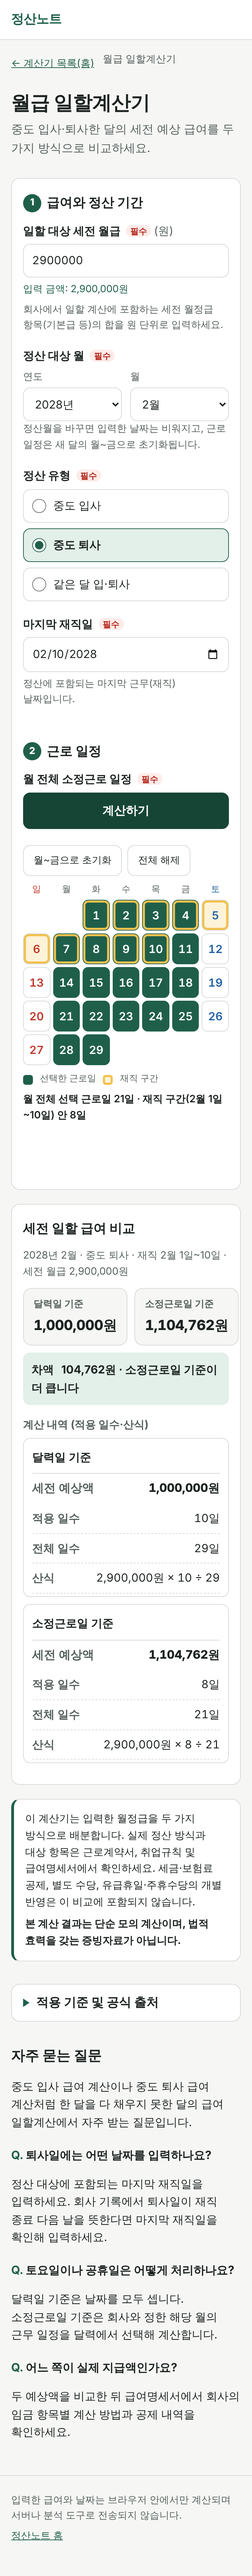
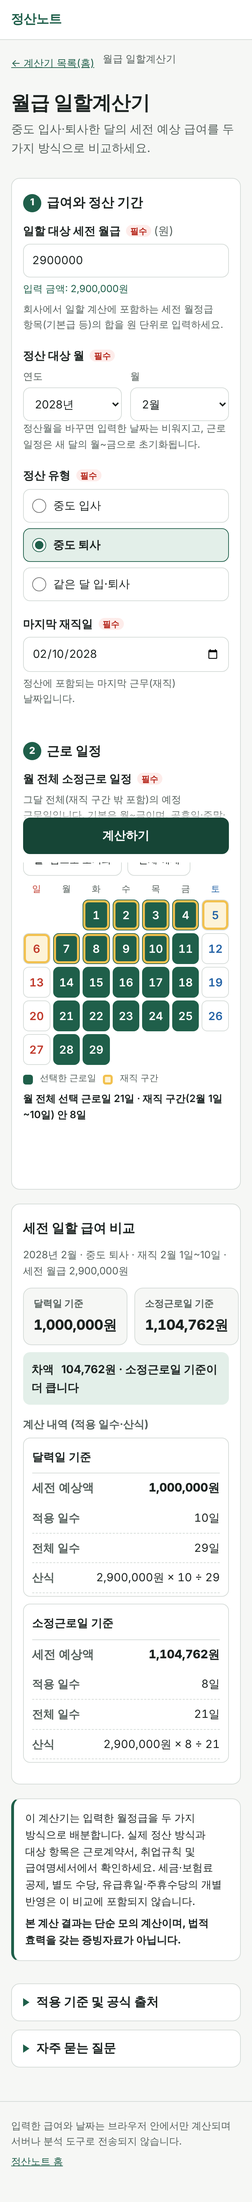
자주 묻는 질문을 접이식 영역으로 (두 계산기)
- 기본 접힘, 제목줄 전체 클릭·Enter·Space, 화살표로 상태 표시 (적용 기준 영역과 같은 스타일)
- 화면 자동 점검에 FAQ 접이식 항목 추가 (360·390·1440px)

Claude-Session: https://claude.ai/code/session_01Q3BcEdyQ2K5YjfFxHGZibt

Changed region(s): [[0.0306, 0.0, 0.9167, 0.9978], [0.825, 0.0312, 0.8556, 0.0624], [0.7333, 0.0312, 0.7639, 0.0624]]

diff --git a/site/assets/css/style.css b/site/assets/css/style.css
@@ -394,26 +394,26 @@ input[aria-invalid="true"] { border-color: var(--error); box-shadow: 0 0 0 1px v
   :root:not([data-theme="light"]) .badge-eligible { color: #0d1a15; }
 }
 
-/* ---------- 적용 기준 및 공식 출처 (접이식) ---------- */
-.basis-fold { margin-top: 32px; border: 1px solid var(--border); border-radius: var(--radius); background: var(--surface); }
-.basis-fold > .fold-summary {
+/* ---------- 접이식 영역: 적용 기준 및 공식 출처 · 자주 묻는 질문 ---------- */
+:is(.basis-fold, .faq-fold) { margin-top: 32px; border: 1px solid var(--border); border-radius: var(--radius); background: var(--surface); }
+:is(.basis-fold, .faq-fold) > .fold-summary {
   display: flex; align-items: center; gap: 10px; min-height: 52px; padding: 12px 16px;
   cursor: pointer; list-style: none; border-radius: var(--radius);
   -webkit-tap-highlight-color: transparent; user-select: none;
 }
-.basis-fold > .fold-summary::-webkit-details-marker { display: none; }
-.basis-fold > .fold-summary::before {
+:is(.basis-fold, .faq-fold) > .fold-summary::-webkit-details-marker { display: none; }
+:is(.basis-fold, .faq-fold) > .fold-summary::before {
   content: ""; flex: none; width: 0; height: 0;
   border-style: solid; border-width: 6px 0 6px 9px; border-color: transparent transparent transparent var(--brand);
   transition: transform .15s;
 }
-.basis-fold[open] > .fold-summary::before { transform: rotate(90deg); }
-.basis-fold > .fold-summary h2 { margin: 0; font-size: 1.1rem; }
+:is(.basis-fold, .faq-fold)[open] > .fold-summary::before { transform: rotate(90deg); }
+:is(.basis-fold, .faq-fold) > .fold-summary h2 { margin: 0; font-size: 1.1rem; }
 @media (hover: hover) {
-  .basis-fold > .fold-summary:hover { background: var(--brand-soft); }
+  :is(.basis-fold, .faq-fold) > .fold-summary:hover { background: var(--brand-soft); }
 }
-.basis-fold[open] > .fold-summary { border-bottom: 1px solid var(--border); border-radius: var(--radius) var(--radius) 0 0; }
-.basis-fold > .fold-body { padding: 4px 16px 16px; }
+:is(.basis-fold, .faq-fold)[open] > .fold-summary { border-bottom: 1px solid var(--border); border-radius: var(--radius) var(--radius) 0 0; }
+:is(.basis-fold, .faq-fold) > .fold-body { padding: 4px 16px 16px; }
 .basis-fold .basis-result { margin: 12px 0 4px; padding: 12px; border-radius: 10px; background: var(--brand-soft); font-size: 0.9rem; }
 .basis-fold .basis-result h3 { margin: 0 0 6px; font-size: 0.95rem; }
 .basis-fold .basis-result ul { padding-left: 18px; }
@@ -497,3 +497,7 @@ input[aria-invalid="true"] { border-color: var(--error); box-shadow: 0 0 0 1px v
 @media (max-width: 599px) { .compare:not(.whp-table) td.amount { font-size: 1.05rem; } }
 #result-title { scroll-margin-top: 16px; }                                         /* N4 */
 .result-basis-note { margin: -6px 0 12px; }
+
+/* 자주 묻는 질문 접이식: 적용 기준 영역과 간격 */
+.faq-fold { margin-top: 12px; }
+.faq-fold .fold-body > h3:first-of-type { margin-top: 12px; }

diff --git a/site/salary-proration/index.html b/site/salary-proration/index.html
@@ -212,8 +212,9 @@
     </div>
     </details>
 
-    <section class="content faq" aria-labelledby="faq-title">
-      <h2 id="faq-title">자주 묻는 질문</h2>
+    <details class="content faq faq-fold" id="faq-fold">
+      <summary class="fold-summary"><h2 id="faq-title">자주 묻는 질문</h2></summary>
+      <div class="fold-body">
       <p>중도 입사 급여 계산이나 중도 퇴사 급여 계산처럼 한 달을 다 채우지 못한 달의 급여 일할계산에서 자주 받는 질문입니다.</p>
       <h3>퇴사일에는 어떤 날짜를 입력하나요?</h3>
       <p>정산 대상에 포함되는 마지막 재직일을 입력하세요. 회사 기록에서 퇴사일이 재직 종료 다음 날을 뜻한다면 마지막 재직일을 확인해 입력하세요.</p>
@@ -221,7 +222,8 @@
       <p>달력일 기준은 날짜를 모두 셉니다. 소정근로일 기준은 회사와 정한 해당 월의 근무 일정을 달력에서 선택해 계산합니다.</p>
       <h3>어느 쪽이 실제 지급액인가요?</h3>
       <p>두 예상액을 비교한 뒤 급여명세서에서 회사의 임금 항목별 계산 방법과 공제 내역을 확인하세요.</p>
-    </section>
+    </div>
+    </details>
   </main>
 
   <footer class="site-footer">

diff --git a/site/weekly-holiday-pay/index.html b/site/weekly-holiday-pay/index.html
@@ -202,8 +202,9 @@
     </div>
     </details>
 
-    <section class="content faq" aria-labelledby="faq-title">
-      <h2 id="faq-title">자주 묻는 질문</h2>
+    <details class="content faq faq-fold" id="faq-fold">
+      <summary class="fold-summary"><h2 id="faq-title">자주 묻는 질문</h2></summary>
+      <div class="fold-body">
       <h3>주 15시간은 그 주에 일한 시간으로 보나요?</h3>
       <p>아닙니다. 미리 정한 근무시간(소정근로시간)을 4주 동안 평균해 봅니다. 4주보다 짧게 일했다면 그 기간으로 평균합니다.</p>
       <h3>갑자기 더 일한 시간도 들어가나요?</h3>
@@ -212,7 +213,8 @@
       <p>지각·조퇴·휴가·휴업은 결근이 아닙니다. 다만 근무일 전부를 휴가로 쉬어 실제로 일한 날이 없는 주는 지급 대상이 아닐 수 있습니다.</p>
       <h3>마지막 주에도 받나요?</h3>
       <p>그 주의 7일째 날까지 재직하고 근무일을 모두 출근했다면 지급 대상입니다. 7일째 날 전에 퇴사하면 지급 대상이 아닙니다.</p>
-    </section>
+    </div>
+    </details>
   </main>
 
   <footer class="site-footer">

diff --git a/docs/ui/ui-check-report.md b/docs/ui/ui-check-report.md
@@ -1,7 +1,7 @@
 # 화면 자동 점검 결과
 
-- 실행: 2026-11-21T04:17:25.289Z · 대상: 로컬(site/) · 너비 360·390·1440px
-- 집계: 통과 55 · 실패 0
+- 실행: 2026-11-21T04:41:21.331Z · 대상: 로컬(site/) · 너비 360·390·1440px
+- 집계: 통과 61 · 실패 0
 
 | 위치 | 항목 | 결과 | 실제값(실패 시) |
 |---|---|---|---|
@@ -17,8 +17,10 @@
 | [주휴수당 계산기 @ 360px] | 홈 카드 → 대표 사례 결과 | 통과 |  |
 | [주휴수당 계산기 @ 360px] | 결과 화면 가로 스크롤·잘림 없음 | 통과 |  |
 | [월급 일할계산기 @ 360px] | 접이식 영역 기본 닫힘·클릭·Enter·Space | 통과 |  |
+| [월급 일할계산기 @ 360px] | 자주 묻는 질문 접이식: 기본 닫힘·클릭·새로고침·Enter·Space | 통과 |  |
 | [월급 일할계산기 @ 360px] | 열린 채 재계산 → 열림 유지·새 값 반영 | 통과 |  |
 | [주휴수당 계산기 @ 360px] | 접이식 영역 기본 닫힘·클릭·Enter·Space | 통과 |  |
+| [주휴수당 계산기 @ 360px] | 자주 묻는 질문 접이식: 기본 닫힘·클릭·새로고침·Enter·Space | 통과 |  |
 | [주휴수당 계산기 @ 360px] | 열린 채 재계산 → 열림 유지·새 값 반영 | 통과 |  |
 | [홈 @ 360px] | 스크립트 오류 없음(전 페이지) | 통과 |  |
 | [홈 @ 390px] | 직접 접속·새로고침 | 통과 |  |
@@ -33,8 +35,10 @@
 | [주휴수당 계산기 @ 390px] | 홈 카드 → 대표 사례 결과 | 통과 |  |
 | [주휴수당 계산기 @ 390px] | 결과 화면 가로 스크롤·잘림 없음 | 통과 |  |
 | [월급 일할계산기 @ 390px] | 접이식 영역 기본 닫힘·클릭·Enter·Space | 통과 |  |
+| [월급 일할계산기 @ 390px] | 자주 묻는 질문 접이식: 기본 닫힘·클릭·새로고침·Enter·Space | 통과 |  |
 | [월급 일할계산기 @ 390px] | 열린 채 재계산 → 열림 유지·새 값 반영 | 통과 |  |
 | [주휴수당 계산기 @ 390px] | 접이식 영역 기본 닫힘·클릭·Enter·Space | 통과 |  |
+| [주휴수당 계산기 @ 390px] | 자주 묻는 질문 접이식: 기본 닫힘·클릭·새로고침·Enter·Space | 통과 |  |
 | [주휴수당 계산기 @ 390px] | 열린 채 재계산 → 열림 유지·새 값 반영 | 통과 |  |
 | [월급 일할계산기 @ 390px] | 계산 사례 1 | 통과 |  |
 | [월급 일할계산기 @ 390px] | 계산 사례 2 | 통과 |  |
@@ -56,7 +60,9 @@
 | [월급 일할계산기 @ 1440px] | 홈 카드 → 대표 사례 결과 | 통과 |  |
 | [주휴수당 계산기 @ 1440px] | 홈 카드 → 대표 사례 결과 | 통과 |  |
 | [월급 일할계산기 @ 1440px] | 접이식 영역 기본 닫힘·클릭·Enter·Space | 통과 |  |
+| [월급 일할계산기 @ 1440px] | 자주 묻는 질문 접이식: 기본 닫힘·클릭·새로고침·Enter·Space | 통과 |  |
 | [월급 일할계산기 @ 1440px] | 열린 채 재계산 → 열림 유지·새 값 반영 | 통과 |  |
 | [주휴수당 계산기 @ 1440px] | 접이식 영역 기본 닫힘·클릭·Enter·Space | 통과 |  |
+| [주휴수당 계산기 @ 1440px] | 자주 묻는 질문 접이식: 기본 닫힘·클릭·새로고침·Enter·Space | 통과 |  |
 | [주휴수당 계산기 @ 1440px] | 열린 채 재계산 → 열림 유지·새 값 반영 | 통과 |  |
 | [홈 @ 1440px] | 스크립트 오류 없음(전 페이지) | 통과 |  |

diff --git a/README.md b/README.md
@@ -45,7 +45,7 @@ npm run test:ui
 - 세 페이지 직접 접속·새로고침
 - 360·390px 가로 스크롤과 입력·결과 잘림
 - 홈 카드 → 계산기 → 대표 사례 결과
-- 접이식 ‘적용 기준 및 공식 출처’ 기본 닫힘, 클릭·Enter·Space로 열고 닫기, 열린 채 재계산
+- 접이식 ‘적용 기준 및 공식 출처’·‘자주 묻는 질문’ 기본 닫힘, 클릭·Enter·Space로 열고 닫기, 열린 채 재계산
 - 두 계산기의 기존 계산 기대값
 
 배포된 주소는 `UI_BASE=https://주소 npm run test:ui`로 점검한다.

diff --git a/docs/test-report.md b/docs/test-report.md
@@ -1,6 +1,6 @@
 # 정산노트 검수 결과표
 
-- 실행: 2026-11-21T04:20:02.055Z · 미리보기(site/) · `npm run test:e2e` · Chromium(Playwright) · 시간대 Pacific/Kiritimati(UTC+14)
+- 실행: 2026-11-21T04:42:32.722Z · 미리보기(site/) · `npm run test:e2e` · Chromium(Playwright) · 시간대 Pacific/Kiritimati(UTC+14)
 - 집계: 통과 101 · 실패 0 · 미확인 3
 
 ## 월급 일할계산기 — 필수 검증 사례 5건 (회귀, 브라우저 직접 입력)
